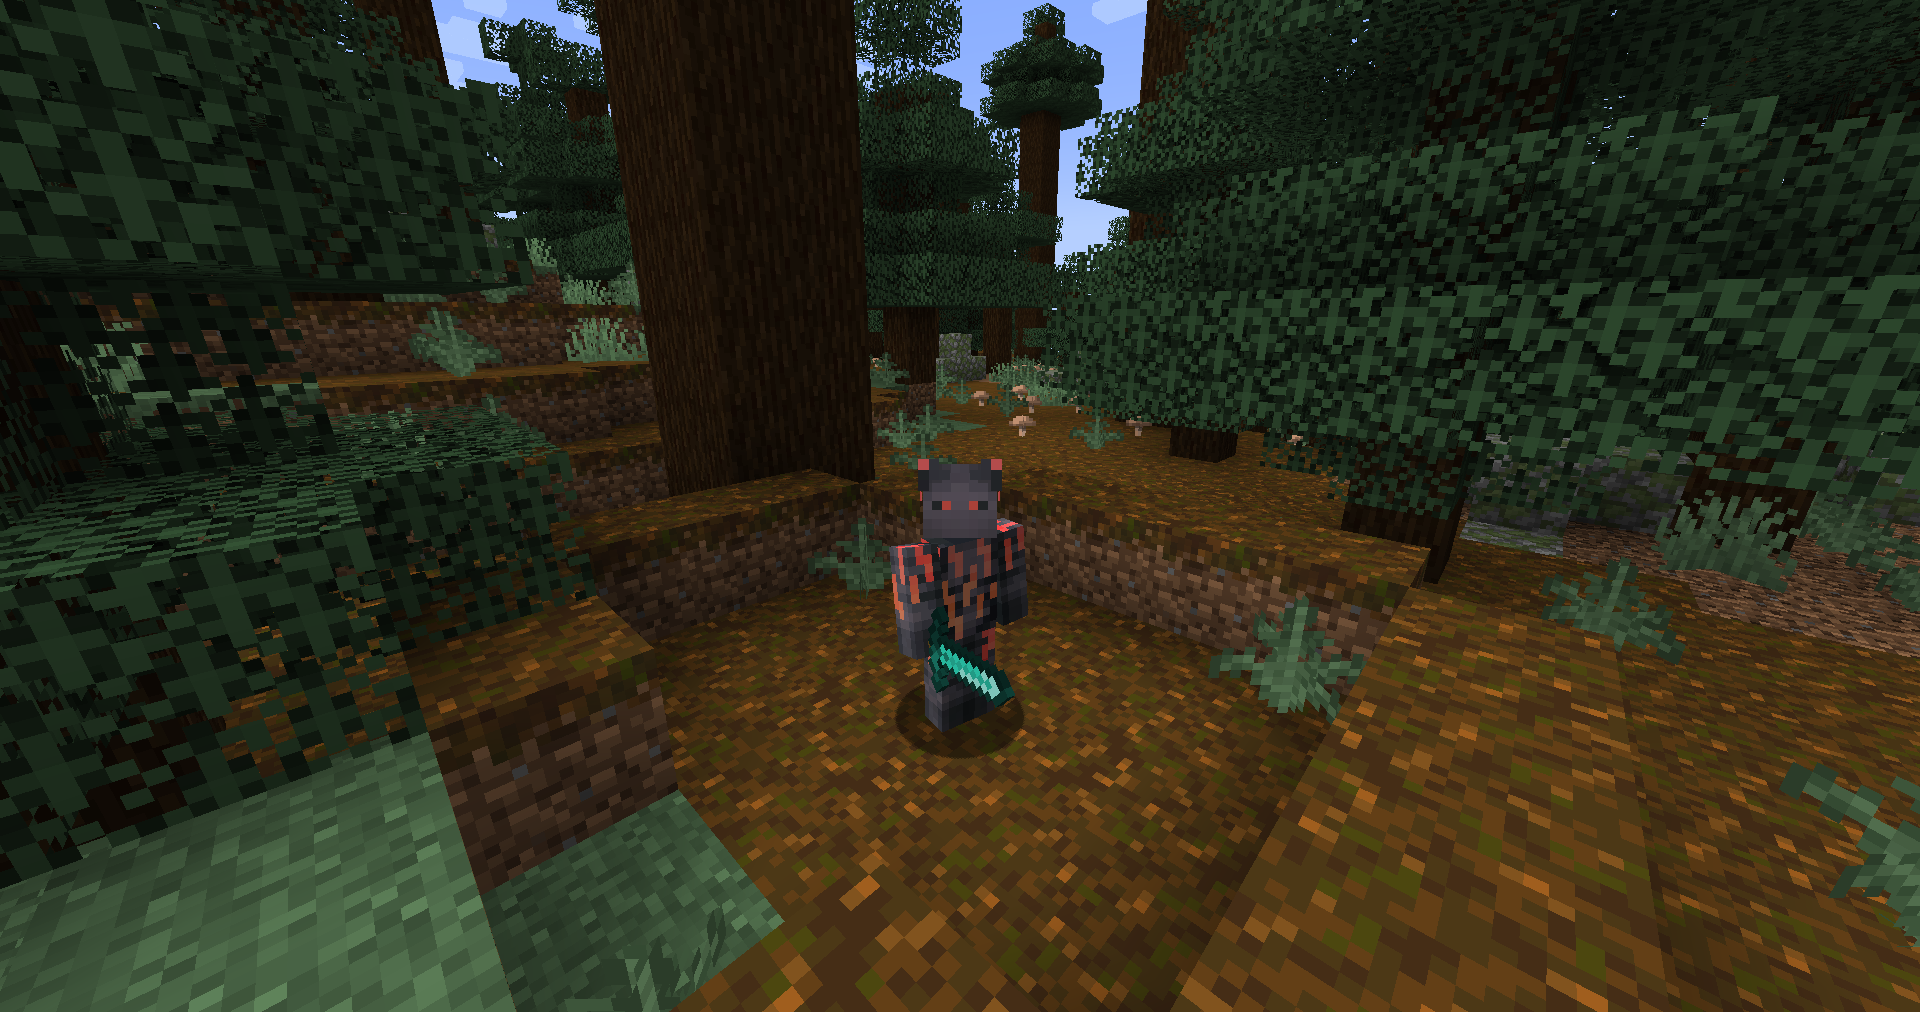
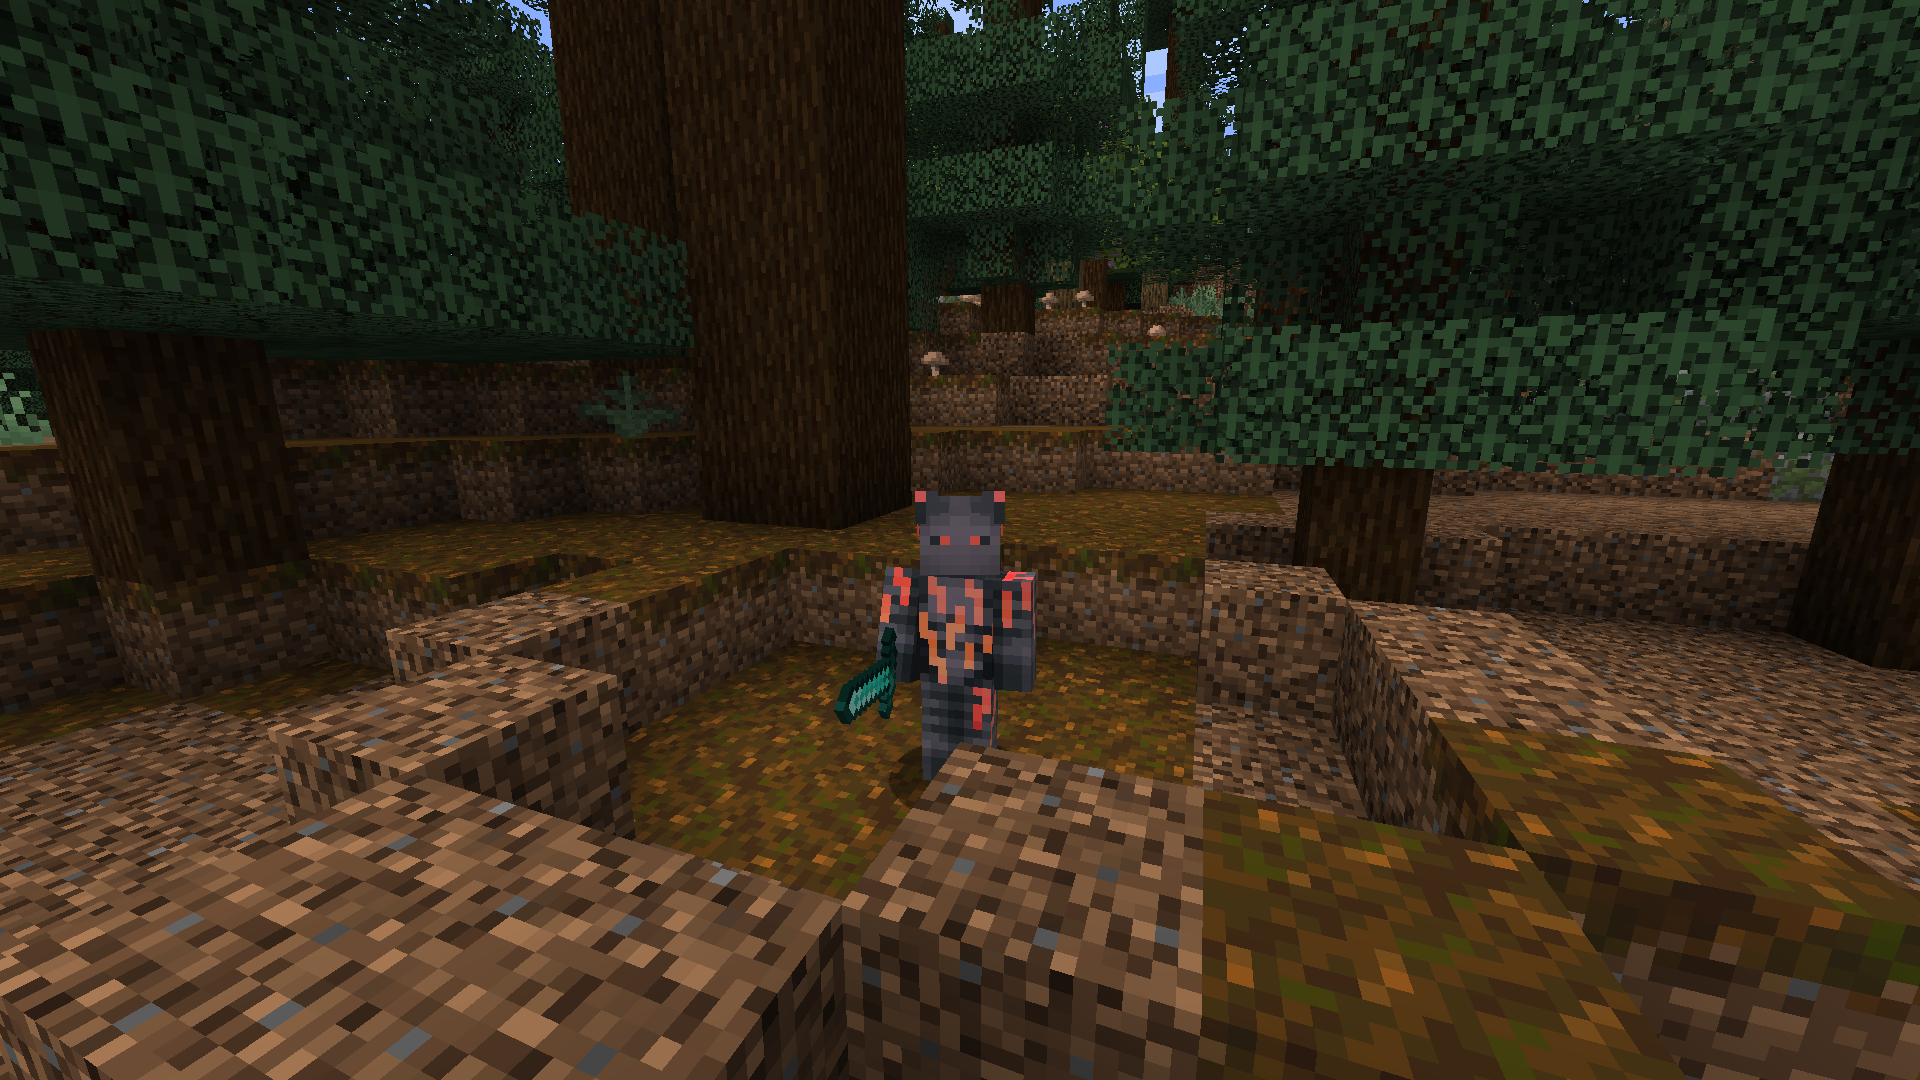
Update screenshots and ability descriptions

diff --git a/src/main/java/com/aregcraft/reforging/ability/FireAbility.java b/src/main/java/com/aregcraft/reforging/ability/FireAbility.java
@@ -12,8 +12,8 @@ import java.util.Set;
 import java.util.UUID;
 
 /**
- * This is the second base ability. It forms multiple circles in the direction where the player is facing, each further
- * from the player, and with bigger radius. If any entity hits the particle, then that entity will be set on fire.
+ * Forms multiple circles in the direction where the player is facing, each further from the player, and with bigger
+ * radius. If any entity hits the particle, then that entity will be set on fire.
  */
 public class FireAbility extends Ability {
     private final Set<UUID> players = new HashSet<>();
@@ -22,8 +22,7 @@ public class FireAbility extends Ability {
      */
     private Particle particle;
     /**
-     * Specifies the "frequency" of the particles. The "frequency" is used to determine the step angle, which is 180
-     * divided by the "frequency". The higher the number is, the further apart will the particles be.
+     * Specifies the number of particles.
      */
     private double particleFrequency;
     /**

diff --git a/src/main/java/com/aregcraft/reforging/ability/ShieldAbility.java b/src/main/java/com/aregcraft/reforging/ability/ShieldAbility.java
@@ -14,8 +14,8 @@ import java.util.Set;
 import java.util.UUID;
 
 /**
- * This is the first base ability. It gives player damage resistance for a specified period of time. You can have
- * multiple abilities inheriting from this with different options and names.
+ * Gives player damage resistance for a specified period of time. You can have multiple abilities inheriting from this
+ * with different options and names.
  */
 public class ShieldAbility extends Ability implements Listener {
     private final Set<UUID> players = new HashSet<>();
@@ -24,8 +24,7 @@ public class ShieldAbility extends Ability implements Listener {
      */
     private Particle particle;
     /**
-     * Specifies the "frequency" of the particles. The "frequency" is used to determine the step angle, which is 180
-     * divided by the "frequency". The higher the number is, the further apart will the particles be.
+     * Specifies the number of particles.
      */
     private double particleFrequency;
     /**

diff --git a/src/main/java/com/aregcraft/reforging/ability/StormAbility.java b/src/main/java/com/aregcraft/reforging/ability/StormAbility.java
@@ -13,7 +13,7 @@ import java.util.Set;
 import java.util.UUID;
 
 /**
- * This is the fourth base ability. It allows the player to strike a circle of lighting around them.
+ * Allows the player to strike a circle of lighting around them.
  */
 public class StormAbility extends Ability implements Listener {
     private final Set<UUID> players = new HashSet<>();
@@ -22,8 +22,7 @@ public class StormAbility extends Ability implements Listener {
      */
     private double radius;
     /**
-     * Specifies the "frequency" of the lighting. The "frequency" is used to determine the step angle, which is 180
-     * divided by the "frequency". The higher the number is, the further apart will the lighting be.
+     * Specifies the number of lightnings.
      */
     private double frequency;
 

diff --git a/src/main/java/com/aregcraft/reforging/ability/EarthAbility.java b/src/main/java/com/aregcraft/reforging/ability/EarthAbility.java
@@ -3,7 +3,7 @@ package com.aregcraft.reforging.ability;
 import org.bukkit.entity.Player;
 
 /**
- * This is the fifth base ability. It allows the player to form a protective block circle around them.
+ * Allows the player to form a protective block circle around them.
  */
 public class EarthAbility extends Ability {
     /**
@@ -11,8 +11,7 @@ public class EarthAbility extends Ability {
      */
     private double radius;
     /**
-     * Specifies the "frequency" of the blocks. The "frequency" is used to determine the step angle, which is 180
-     * divided by the "frequency". The higher the number is, the further apart will the blocks be.
+     * Specifies the number of blocks.
      */
     private double frequency;
 

diff --git a/src/main/java/com/aregcraft/reforging/ability/ThrowAbility.java b/src/main/java/com/aregcraft/reforging/ability/ThrowAbility.java
@@ -18,8 +18,8 @@ import java.util.Set;
 import java.util.UUID;
 
 /**
- * This is the third base ability. It allows the player to throw sword which will disappear after hitting a solid block
- * or travelling the maximum specified distance and damage all the entities it hits on the way.
+ * Allows the player to throw sword which will disappear after hitting a solid block or travelling the maximum
+ * specified distance and damage all the entities it hits on the way.
  */
 public class ThrowAbility extends Ability {
     public static final double EPSILON = 0.000001;

diff --git a/README.md b/README.md
@@ -9,7 +9,6 @@ customizable with options to add custom reforges, heavily tweak existing abiliti
 
 ![Fire Ability](https://github.com/Aregcraft/reforging/blob/master/screenshots/fire_ability.png)
 ![Shield Ability](https://github.com/Aregcraft/reforging/blob/master/screenshots/shield_ability.png)
-![Axe on Anvil](https://github.com/Aregcraft/reforging/blob/master/screenshots/axe_on_anvil.png)
 ![Earth Ability](https://github.com/Aregcraft/reforging/blob/master/screenshots/earth_ability.png)
 ![Sword on Anvil](https://github.com/Aregcraft/reforging/blob/master/screenshots/sword_on_anvil.png)
 ![Throw Ability](https://github.com/Aregcraft/reforging/blob/master/screenshots/throw_ability.png)
@@ -223,7 +222,7 @@ tweaks to the base built-in abilities.
 
 #### fireAbility: object
 
-This is the second base ability. It forms multiple circles in the direction where the player is facing, each further from the player, and with bigger radius. If any entity hits the particle, then that entity will be set on fire.
+Forms multiple circles in the direction where the player is facing, each further from the player, and with bigger radius. If any entity hits the particle, then that entity will be set on fire.
 
 ##### price: object
 
@@ -243,7 +242,7 @@ Specifies the type of the particle which is used to form circles.
 
 ##### particleFrequency: double
 
-Specifies the "frequency" of the particles. The "frequency" is used to determine the step angle, which is 180 divided by the "frequency". The higher the number is, the further apart will the particles be.
+Specifies the number of particles.
 
 ##### circleDistance: double
 
@@ -271,7 +270,7 @@ Specifies how much time after forming a circle should pass to form the next one 
 
 #### stormAbility: object
 
-Specifies the maximum distance from the weapon which will damage an entity.
+Allows the player to strike a circle of lighting around them.
 
 ##### price: object
 
@@ -291,11 +290,11 @@ Specifies the radius of the circle formed around the player.
 
 ##### frequency: double
 
-Specifies the "frequency" of the lighting. The "frequency" is used to determine the step angle, which is 180 divided by the "frequency". The higher the number is, the further apart will the lighting be.
+Specifies the number of lightnings.
 
 #### throwAbility: object
 
-This is the third base ability. It allows the player to throw sword which will disappear after hitting a solid block or travelling the maximum specified distance and damage all the entities it hits on the way.
+Allows the player to throw sword which will disappear after hitting a solid block or travelling the maximum specified distance and damage all the entities it hits on the way.
 
 ##### price: object
 
@@ -327,7 +326,7 @@ Specifies the maximum distance from the weapon which will damage an entity.
 
 #### shieldAbility: object
 
-This is the first base ability. It gives player damage resistance for a specified period of time. You can have multiple abilities inheriting from this with different options and names.
+Gives player damage resistance for a specified period of time. You can have multiple abilities inheriting from this with different options and names.
 
 ##### price: object
 
@@ -347,7 +346,7 @@ Specifies the type of the particle which is used to form a circle around the pla
 
 ##### particleFrequency: double
 
-Specifies the "frequency" of the particles. The "frequency" is used to determine the step angle, which is 180 divided by the "frequency". The higher the number is, the further apart will the particles be.
+Specifies the number of particles.
 
 ##### radius: double
 
@@ -363,7 +362,7 @@ Specifies whether the player should be prevented from attacking other entities w
 
 #### earthAbility: object
 
-This is the fifth base ability. It allows the player to form a protective block circle around them.
+Allows the player to form a protective block circle around them.
 
 ##### price: object
 
@@ -383,7 +382,7 @@ Specifies the radius of the circle formed around the player.
 
 ##### frequency: double
 
-Specifies the "frequency" of the blocks. The "frequency" is used to determine the step angle, which is 180 divided by the "frequency". The higher the number is, the further apart will the blocks be.
+Specifies the number of blocks.
 
 ```json
 {
